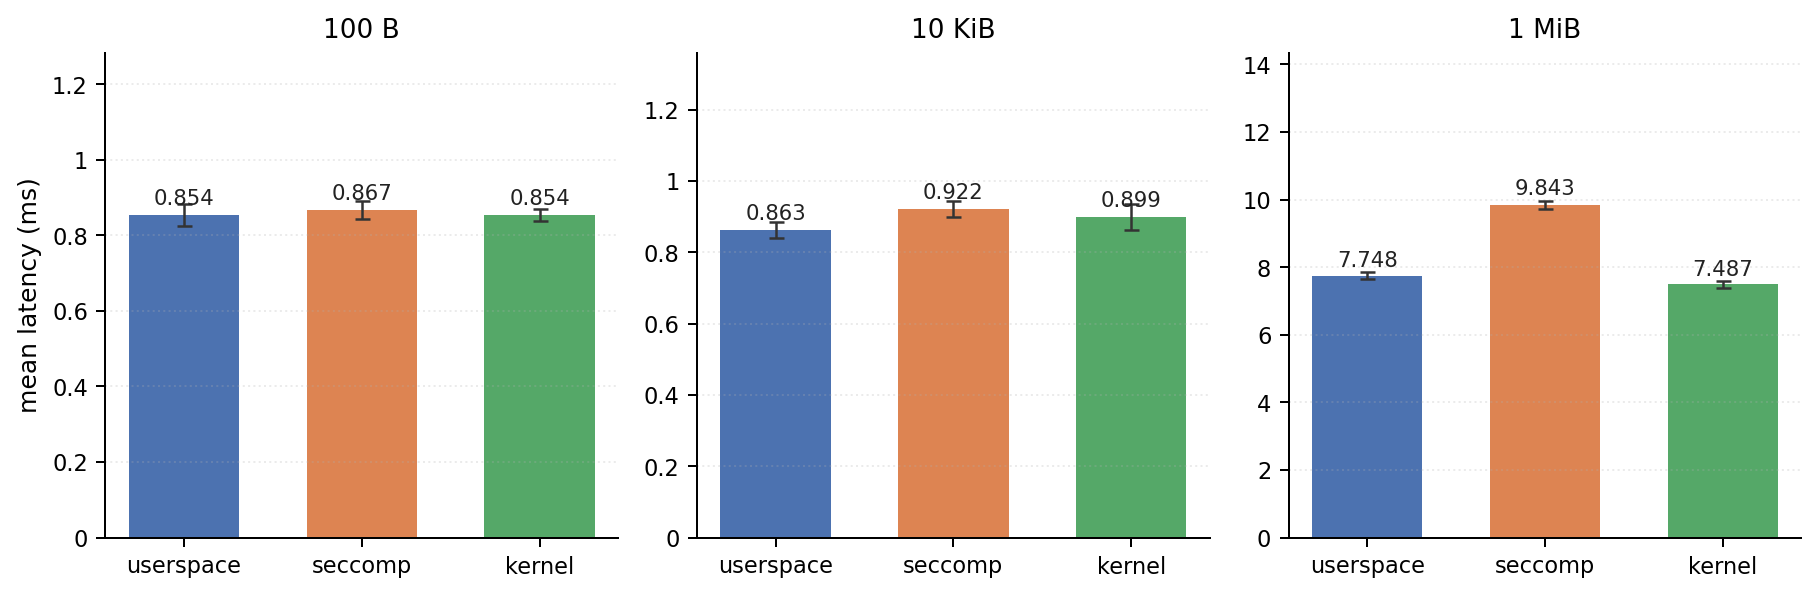
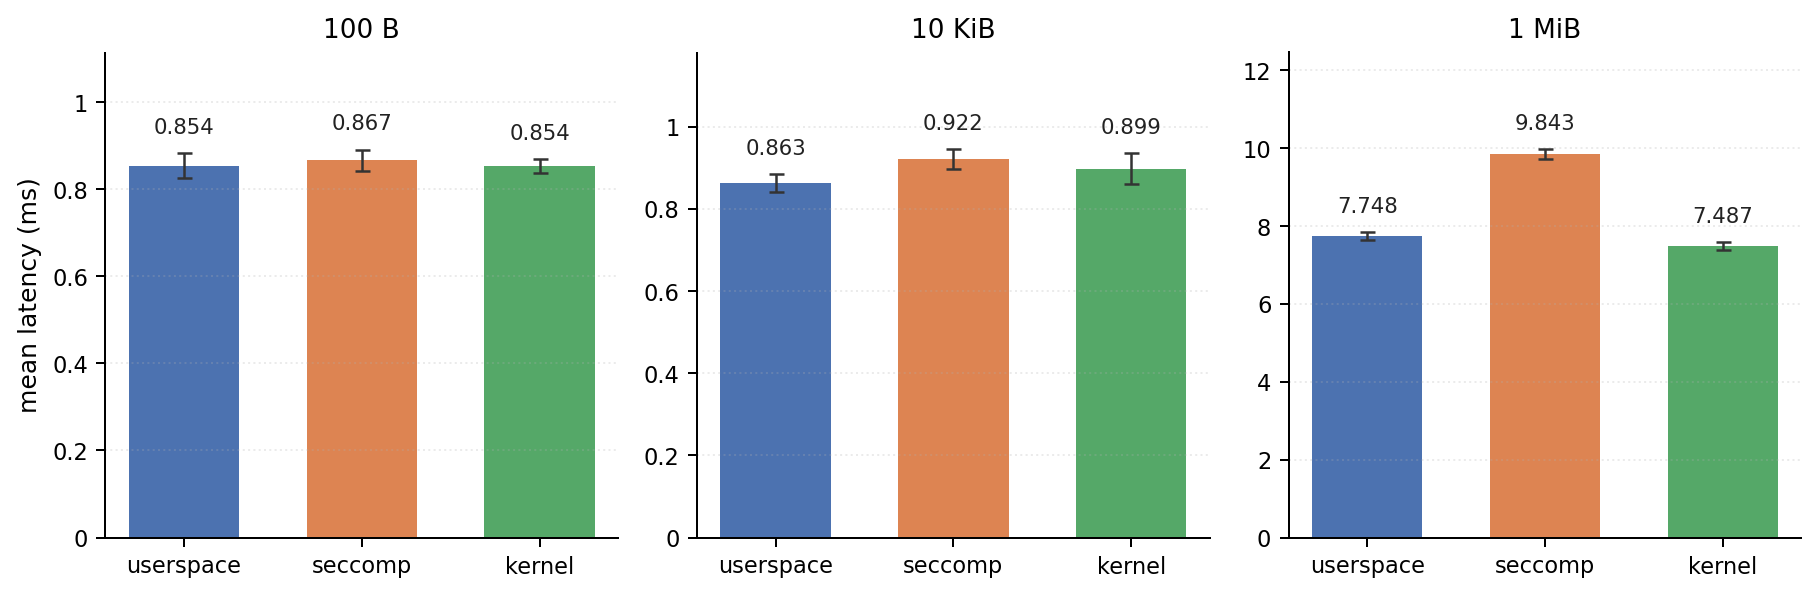
lift value labels above error bars in v2 latency figures
Previously bar labels were stamped at mean*1.02, which crashed into the
error bar tips and the bar outline for tall bars. Position labels at
mean + err_hi + pad and widen the y-axis headroom so the numbers sit
cleanly above the error bar.

diff --git a/scripts/experiments/plot_linux_mcp_v2.py b/scripts/experiments/plot_linux_mcp_v2.py
@@ -241,20 +241,21 @@ def _plot_latency_by_payload_metric(
             capsize=3,
             error_kw={"elinewidth": 1.0, "ecolor": "#333333"},
         )
-        # Annotate each bar with its mean value.
-        for x, mean in zip(x_positions, means):
+        # Annotate each bar with its mean value, placed above the error bar.
+        max_top = max((m + eh) for m, eh in zip(means, err_his)) if means else 0.0
+        label_pad = max_top * 0.04 if max_top > 0 else 0.01
+        for x, mean, eh in zip(x_positions, means, err_his):
             ax.text(
                 x,
-                mean * 1.02 if mean > 0 else 0.01,
+                mean + eh + label_pad,
                 f"{mean:.3f}",
                 ha="center",
                 va="bottom",
                 fontsize=8.5,
                 color="#222222",
             )
-        y_top = max(m + eh for m, eh in zip(means, err_his)) * 1.22 if means else 0.0
-        if y_top > 0:
-            ax.set_ylim(0, y_top * 1.18)
+        if max_top > 0:
+            ax.set_ylim(0, max_top * 1.25)
 
         ax.set_xticks(x_positions)
         ax.set_xticklabels([SYSTEM_LABELS[s] for s in systems])
@@ -461,10 +462,10 @@ def plot_latency_overhead(
             capsize=3,
             error_kw={"elinewidth": 1.0, "ecolor": "#333333"},
         )
-        for x, ratio in zip(offsets, ratios):
+        for x, ratio, eh in zip(offsets, ratios, errs_hi):
             ax.text(
                 x,
-                ratio + 0.02,
+                ratio + eh + 0.025,
                 f"{ratio:.2f}",
                 ha="center",
                 va="bottom",
@@ -478,8 +479,8 @@ def plot_latency_overhead(
     ax.set_ylabel("mean-latency ratio (1.00 = parity)")
     low = min(all_values + [0.9]) if all_values else 0.9
     high = max(all_values + [1.1]) if all_values else 1.1
-    pad = (high - low) * 0.25 if high > low else 0.1
-    ax.set_ylim(max(0, low - pad), high + pad)
+    pad = (high - low) * 0.35 if high > low else 0.1
+    ax.set_ylim(max(0, low - pad * 0.5), high + pad)
     ax.legend(loc="upper left")
     fig.tight_layout()
     _save(fig, out_dir, "figure_latency_overhead")
